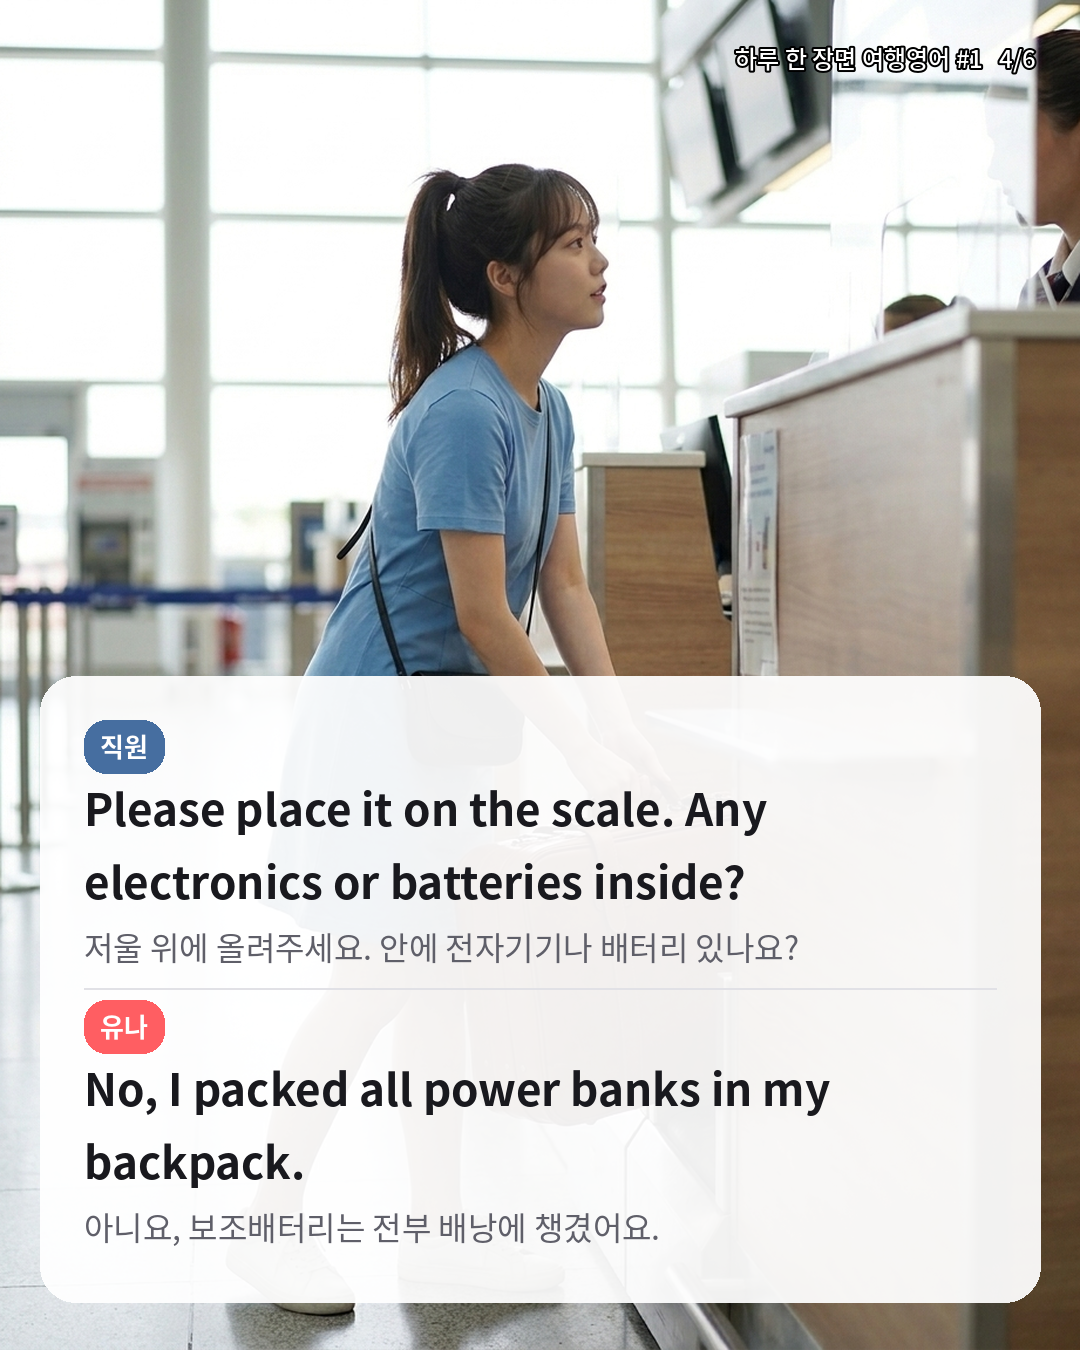
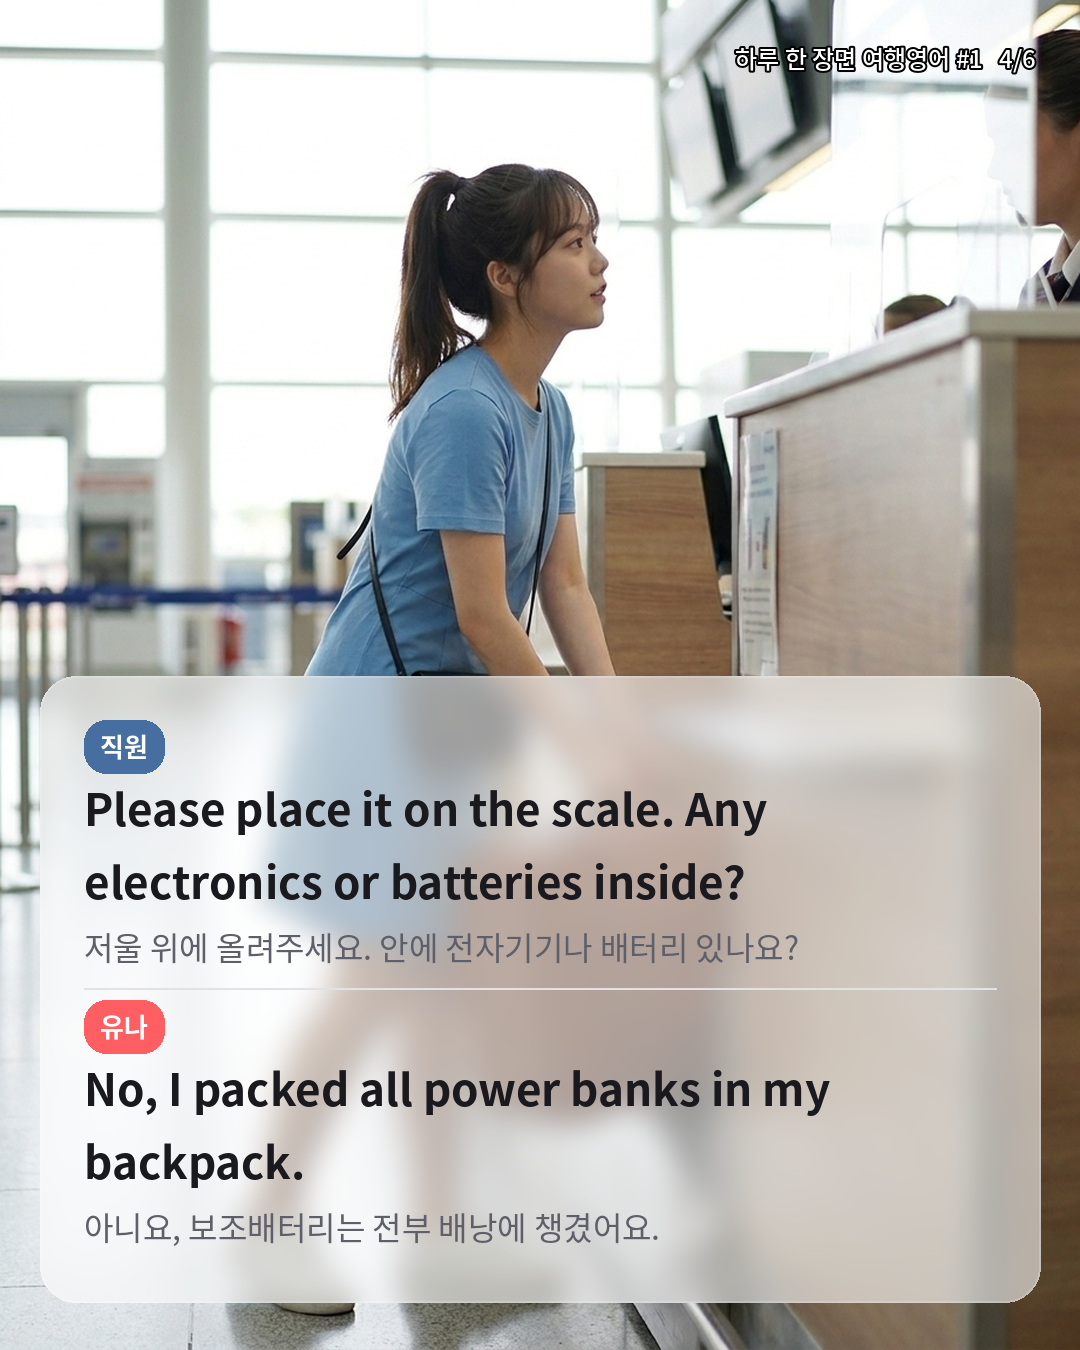
Vary shot types per slide (wide/close-up/OTS/bust/full) and translucent frosted text cards
Claude-Session: https://claude.ai/code/session_01YZQxc5Cc6w3SKfMaNNprM1

diff --git a/scripts/render_episode.py b/scripts/render_episode.py
@@ -39,6 +39,15 @@ PHOTO_RULES = (
     "Absolutely no readable text, letters, numbers, signs, screens with text, logos, airline or brand names anywhere. "
     "No watermark, no captions, no speech bubbles."
 )
+# 장마다 다른 샷으로 찍어 사진이 비슷해 보이지 않게
+SHOTS = {
+    1: "MEDIUM SHOT (waist up), she looks into the camera with a bright smile, the place clearly visible behind her.",
+    2: "WIDE FULL SHOT: her whole body small-to-medium in frame, the whole place and the other person visible, establishing shot.",
+    3: "CLOSE-UP: tight on her face and shoulders (or on hands doing the action), strong background blur, expressive emotion.",
+    4: "OVER-THE-SHOULDER SHOT from behind the other person, she faces the camera in the mid-ground.",
+    5: "BUST SHOT from a low side angle (chest up), both people partly in frame, natural candid moment.",
+    6: "FULL-BODY SHOT from a distance, walking away happily or waving, lots of environment, cinematic.",
+}
 BOTTOM_SAFE = " Compose so faces and key action are in the upper 60% of the frame; the lower part may be counters, floor or soft blur."
 
 
@@ -48,10 +57,11 @@ def font(weight, size):
 
 # ---------- 사진 생성 ----------
 
-def generate_photo(key, scene, bottom_safe=True):
+def generate_photo(key, scene, bottom_safe=True, shot=""):
     with open(HERO["ref"], "rb") as f:
         ref = {"inlineData": {"mimeType": "image/png", "data": base64.b64encode(f.read()).decode()}}
-    prompt = f"{PHOTO_RULES}{BOTTOM_SAFE if bottom_safe else ''}\n\nScene: {scene}"
+    prompt = (f"{PHOTO_RULES}{BOTTOM_SAFE if bottom_safe else ''}\n\n"
+              f"Camera framing (follow strictly): {shot}\n\nScene: {scene}")
     body = {
         "contents": [{"parts": [ref, {"text": prompt}]}],
         "generationConfig": {"responseModalities": ["IMAGE"], "imageConfig": {"aspectRatio": "4:5"}},
@@ -126,10 +136,16 @@ def badge(draw, x, y, text, color, fnt):
     return x + tw + 32
 
 
-def overlay(img, box, fill, radius=36):
+def overlay(img, box, fill, radius=36, blur=14):
+    """배경이 비쳐 보이는 반투명 유리 카드: 카드 영역만 살짝 흐리게 + 반투명 흰색."""
+    img = img.convert("RGBA")
+    mask = Image.new("L", img.size, 0)
+    ImageDraw.Draw(mask).rounded_rectangle(box, radius, fill=255)
+    if blur:
+        img = Image.composite(img.filter(ImageFilter.GaussianBlur(blur)), img, mask)
     layer = Image.new("RGBA", img.size, (0, 0, 0, 0))
-    ImageDraw.Draw(layer).rounded_rectangle(box, radius, fill=fill)
-    return Image.alpha_composite(img.convert("RGBA"), layer)
+    ImageDraw.Draw(layer).rounded_rectangle(box, radius, fill=fill, outline=(255, 255, 255, 170), width=2)
+    return Image.alpha_composite(img, layer)
 
 
 def footer(draw, ep_no, n, total):
@@ -174,7 +190,7 @@ def compose_dialogue(raw, s, panel, out, total):
         h = text_block(d, 0, h + 2, dl["ko"], f_ko, SUB, max_w, measure=True) + 22
     h += pad - 22
     top = H - 48 - h
-    img = overlay(img, (mx, top, W - mx, H - 48), (255, 255, 255, 238))
+    img = overlay(img, (mx, top, W - mx, H - 48), (255, 255, 255, 150))
     d = ImageDraw.Draw(img)
     footer(d, s["episode"], panel["cut"], total)
     y = top + pad
@@ -190,8 +206,7 @@ def compose_dialogue(raw, s, panel, out, total):
 
 
 def compose_summary(raw, s, out, total):
-    img = fit_cover(Image.open(raw)).filter(ImageFilter.GaussianBlur(3)).convert("RGBA")
-    img = Image.alpha_composite(img, Image.new("RGBA", (W, H), (0, 0, 0, 70)))
+    img = fit_cover(Image.open(raw)).convert("RGBA")
     mx, pad = 56, 52
     max_w = W - 2 * mx - 2 * pad
     meas = ImageDraw.Draw(img)
@@ -212,7 +227,7 @@ def compose_summary(raw, s, out, total):
 
     h = body(meas, 0, True) + 2 * pad
     top = max(110, (H - h) // 2)
-    img = overlay(img, (mx, top, W - mx, top + h), (255, 255, 255, 242), 44)
+    img = overlay(img, (mx, top, W - mx, top + h), (255, 255, 255, 165), 44, blur=10)
     d = ImageDraw.Draw(img)
     footer(d, s["episode"], total, total)
     body(d, top + pad, False)
@@ -238,7 +253,7 @@ def main():
     for n, scene, safe in jobs:
         raw = f"{ep_dir}/raw/cut{n}.png"
         if not compose_only and (force or not os.path.exists(raw)):
-            img, model, err = generate_photo(key, scene, safe)
+            img, model, err = generate_photo(key, scene, safe, SHOTS.get(n, ""))
             if not img:
                 report.append(f"- {n}장: ❌ {err}")
                 continue

diff --git a/episodes/ep001/report.md b/episodes/ep001/report.md
@@ -1,6 +1,6 @@
 # #1 「공항 체크인 짐 부치기 영어」 렌더링 결과
 
-- 실행 시각: 2026-10-19 23:19 KST
+- 실행 시각: 2026-10-19 23:23 KST
 - 1장: ✅ 합성
 - 2장: ✅ 합성
 - 3장: ✅ 합성
